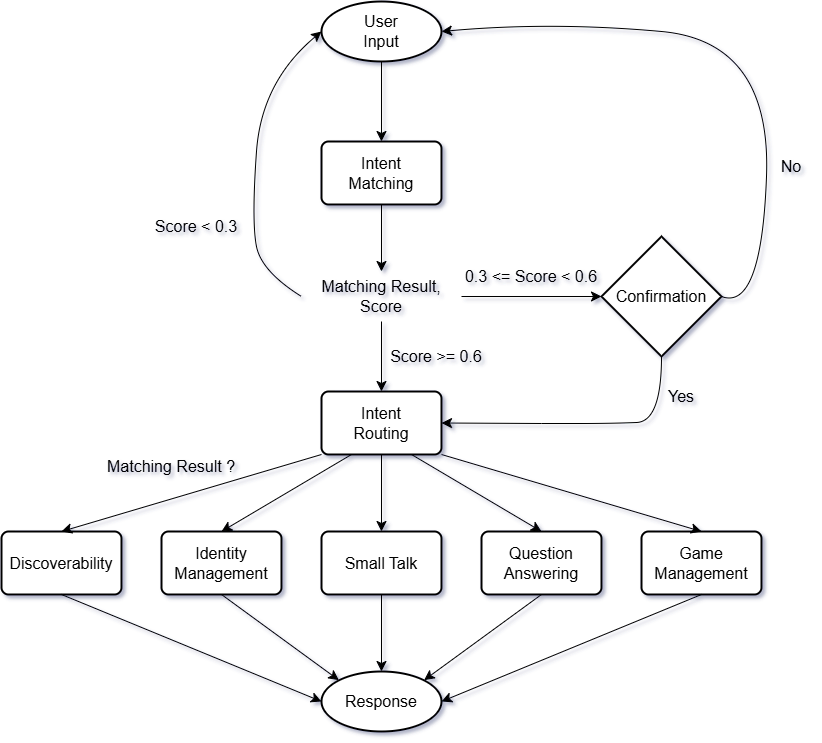
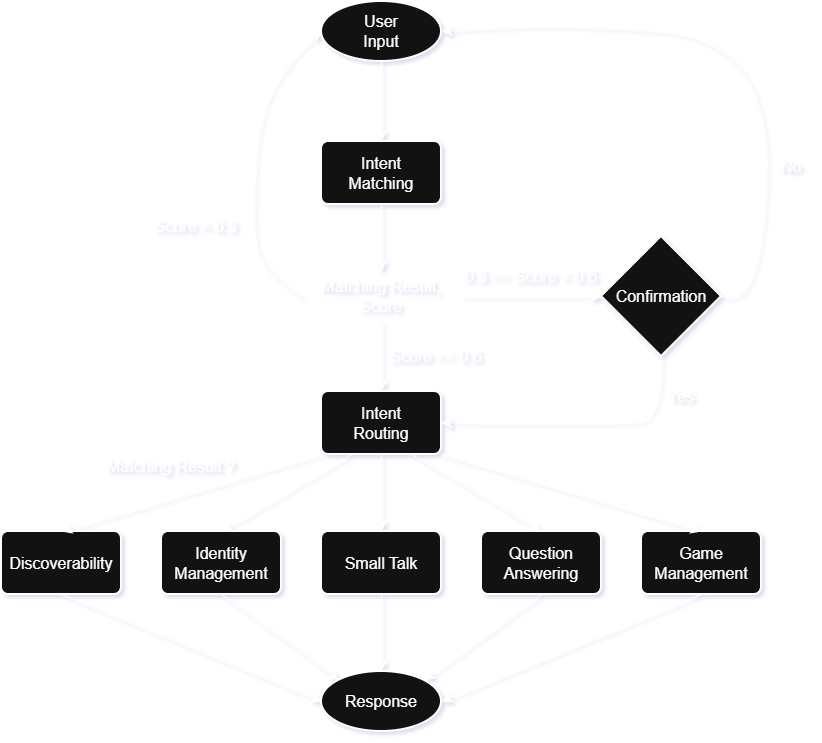
final touch

diff --git a/README.md b/README.md
@@ -6,7 +6,7 @@ The chatbot provides an intuitive and friendly experience for users to:
 - Track and manage their game collection
 - Search for games by name from a large dataset
 - Engage in small talk and trivia
-- Enjoy a personalised interaction through name recognition
+- Enjoy a personalized interaction through name recognition
 - Discover available features through built-in guidance
 
 ![example](img/example.png)
@@ -87,7 +87,7 @@ Helps users understand what the chatbot can do.
 
 ![architecture](img/architecture.png)
 
-The chatbot follows a structured and modular pipeline. When the user enters a query, the system begins by performing intent matching, comparing the input against a predefined corpus using similarity scores. The behaviour of the chatbot depends on the similarity threshold:
+The chatbot follows a structured and modular pipeline. When the user enters a query, the system begins by performing intent matching, comparing the input against a predefined corpus using similarity scores. The behavior of the chatbot depends on the similarity threshold:
 
 - < 0.3 → The chatbot cannot confidently determine intent and restarts the process
 - 0.3 – 0.6 → A confirmation prompt is shown, asking the user whether to proceed or restart
@@ -103,7 +103,7 @@ Once the intent is validated, the query is sent to one of the core systems:
 
 Each module then generates a final response and returns control to the main loop.
 
-The system’s implementation leverages several important components, including TF-IDF vectorisation, cosine similarity, data loading utilities, and preprocessing functions. These contribute to both the chatbot’s accuracy and flexibility.
+The system’s implementation leverages several important components, including TF-IDF vectorization, cosine similarity, data loading utilities, and preprocessing functions. These contribute to both the chatbot’s accuracy and flexibility.
 
 ## TF-IDF Vectorizer
 
@@ -113,15 +113,15 @@ The first step in processing user input is transforming text into numerical feat
 - Columns represent documents
 - Each cell contains a weight based on TF-IDF (term frequency–inverse document frequency)
 
-TF-IDF is chosen over simpler weighting methods because it emphasizes words that characterise each document while downplaying common terms. Although sparse matrices can be memory-inefficient, this project’s dataset is small enough that this trade-off is acceptable.
+TF-IDF is chosen over simpler weighting methods because it emphasizes words that characterize each document while downplaying common terms. Although sparse matrices can be memory-inefficient, this project’s dataset is small enough that this trade-off is acceptable.
 
-Using Scikit-learn, the TF-IDF vectoriser is trained on a fixed corpus. The corpus undergoes tokenisation and lemmatisation before transformation. Stop-word removal is intentionally disabled because many personal or conversational inputs (e.g., “How are you?”) consist mostly of stop words and would lose meaning if removed.
+Using Scikit-learn, the TF-IDF vectorizer is trained on a fixed corpus. The corpus undergoes tokenization and lemmatization before transformation. Stop-word removal is intentionally disabled because many personal or conversational inputs (e.g., “How are you?”) consist mostly of stop words and would lose meaning if removed.
 
 ## Cosine Similarity
 
 Cosine similarity is used alongside the TF-IDF vectoriser for intent matching. The user query is:
 
-- Lemmatised
+- Lemmatized
 - Transformed into a TF-IDF vector
 - Compared against the corpus matrix
 
